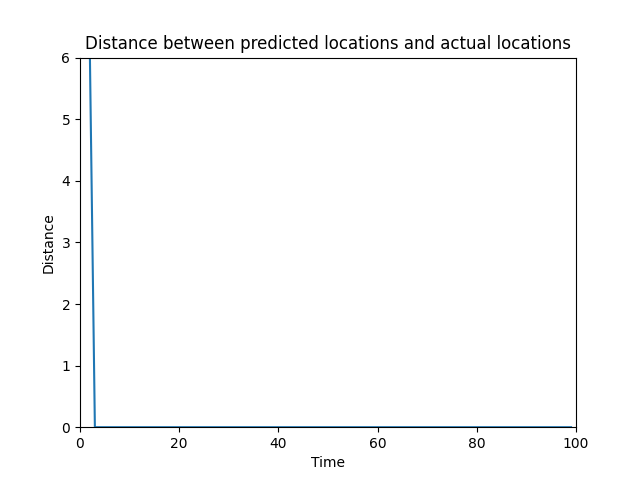
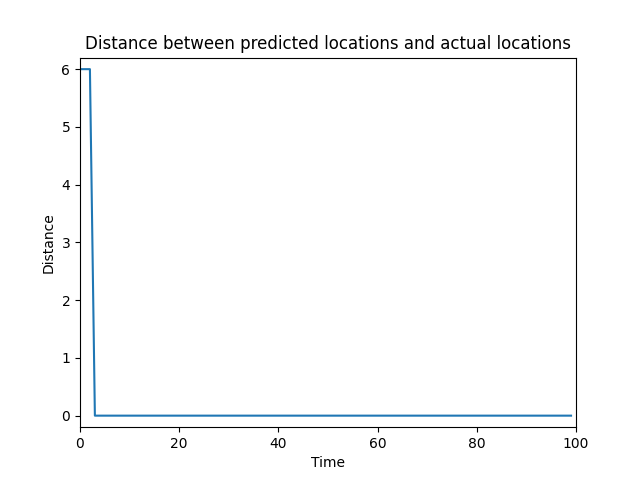
Updating limits of the axes in order to see the data better.

diff --git a/analyzeDBNData.py b/analyzeDBNData.py
@@ -72,7 +72,7 @@ def plotTopDistanceAndProbFromDBN(dimension):
         probs = list(rawResultsDF['prob'])
         
         plt.xlim(0, len(distances))
-        plt.ylim(0, max(distances))
+        plt.ylim(-0.2, max(distances)+0.2)
         plt.xlabel('Time')
         plt.ylabel('Distance') 
         plt.title('Distance between predicted locations and actual locations')
@@ -81,7 +81,7 @@ def plotTopDistanceAndProbFromDBN(dimension):
         plt.clf()
 
         plt.xlim(0, len(probs))
-        plt.ylim(0, max(probs))
+        plt.ylim(-0.1, 1.1)
         plt.xlabel('Time')
         plt.ylabel('Probability') 
         plt.title('Probability over time of the predicted locations')

diff --git a/main.py b/main.py
@@ -49,10 +49,13 @@ def analyzeHMMData():
         plotSmoothing(evidenceTuple)
 
 def main():
-    runHMMTests()
-    runDBNTests()
-    analyzeHMMData()
-    analyzeDBNTests()
+    # runHMMTests()
+    # runDBNTests()
+    # analyzeHMMData()
+    # analyzeDBNTests()
+    plotTopDistanceAndProbFromDBN(10)
+    plotTopDistanceAndProbFromDBN(20)
+    plotTopDistanceAndProbFromDBN(30)
 
 if __name__ == "__main__":
     main()
